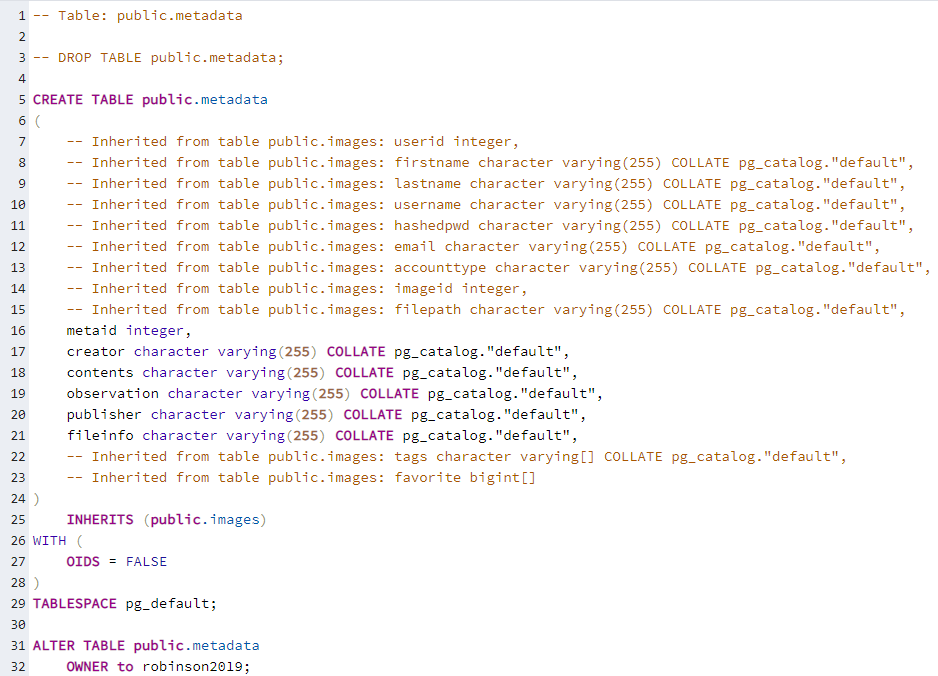
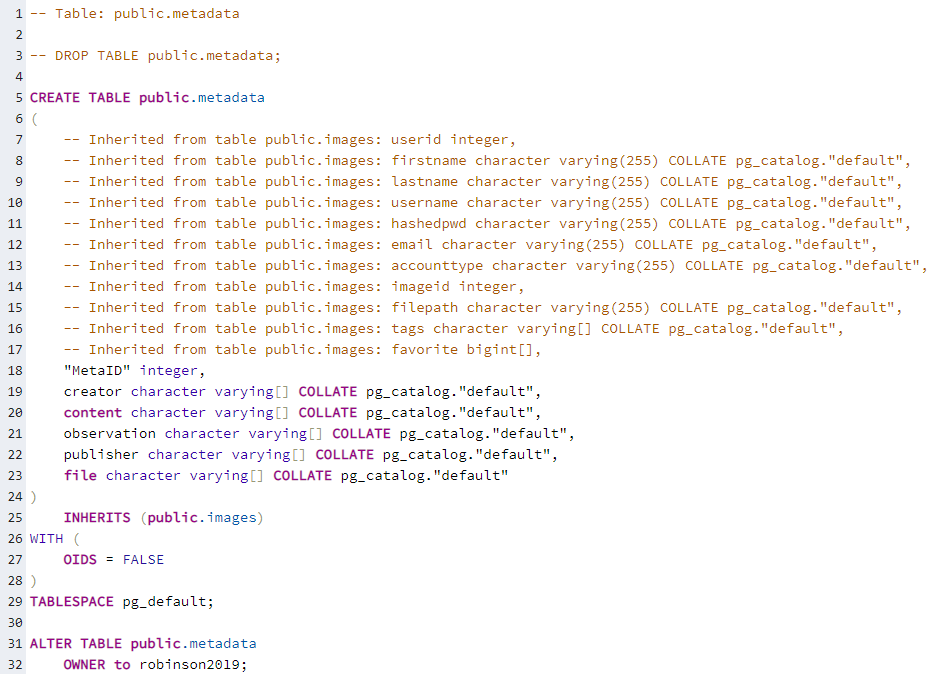
added metadata

Changed region(s): [[0.0618, 0.1869, 0.9893, 0.7166], [0.0, 0.0, 0.3092, 0.997]]

diff --git a/src/document.tex b/src/document.tex
@@ -623,8 +623,10 @@ Creating a database on Amazon Web Services proved to be extremely intuitive and 
 
 \subsection{Users Table}
 
-The users table seeks to form a base for the database to form associations with images and their respective metadata.  The users table will contain some personal information about the user for the purpose of account security but the information will not be shared or displayed publicly.  Their full name and email will only be viewable by the users themselves.  Their username will be used to log in to the website along with their password.  The passwords will be hashed using bcrypt.  Bcrypt is a long-standing and proven password hashing function designed by Niels Provos and David Mazières.  Bcrypt makes use of salt and is resistant to several variations of attacks such as a brute-force search or a rainbow table attack.  Password recovery will work through email as a form of authentication to improve account security.  
-A user ID will be associated with each account as a method of keeping track of accounts without any personal identification and also function as the primary key of the database and each account will be assigned an account type.  The account type will be either public or administrator.  A public account is meant for the general public to interact with the website and view the images made available by the observatory.  A general account will be able to search the images and favorite images of their choice.  The search functionality will find the best match to their criteria based on associated tags of images assigned by administrator accounts.  The administrator accounts will involve the astronomer team and those involved with the observatory professionally.  These accounts will have special access including features such as adding and deleting images from the database and editing metadata information.
+The users table seeks to form a base for the database to form associations with images and their respective metadata.  Each user can be associated to as many images as they desire.  The users table will contain some personal information about the user for the purpose of account security but the information will not be shared or displayed publicly.  Their full name and email will only be viewable by the users themselves.  Their username will be used to log in to the website along with their password.  The passwords will be hashed using bcrypt.  Bcrypt is a long-standing and proven password hashing function designed by Niels Provos and David Mazières.  Bcrypt makes use of salt and is resistant to several variations of attacks such as a brute-force search or a rainbow table attack.  Password recovery will work through email as a form of authentication to improve account security.  
+A user ID will be associated with each account as a method of keeping track of accounts without any personal identification and each account will be assigned an account type.  The account type will be either public or administrator.  A public account is meant for the general public to interact with the website and view the images made available by the observatory.  A general account will be able to search the images and favorite images of their choice.  The search functionality will find the best match to their criteria based on associated tags of images assigned by administrator accounts.  The administrator accounts will involve the astronomer team and those involved with the observatory professionally.  These accounts will have special access including features such as adding and deleting images from the database and editing metadata information.
+Below is an example of the SQL for the users table.
+
 
 \begin{figure}[h]
 	\centering
@@ -635,7 +637,7 @@ A user ID will be associated with each account as a method of keeping track of a
 
 \subsection{Images Table}
 
-The images table will associate images to their metadata and users can associate themselves to multiple images.  The images will make use of a user ID and an image ID to associate images with users in cases such as when they favorite an image or if they uploaded the image to the database.  The images themselves won’t be stored directly on the database but their file paths will be stored on the database to reduce personal data storage requirements and rely on the use of cloud storage.  Tags will be created for images in order for them to be identifiable. Tags such as “full moon”, “Polaris”, “the north star” will assist the search functionality of the database to make the website and images more accessible and increase community interactions.  A favorite functionality will also allow for images to be associated to users in a personal gallery of favorited images from the observatory.  Below is an example of the SQL for the images table.
+The images table will associate images to their metadata and users can associate themselves to multiple images.  Each user can be associated to many images and each image will be associated to a specific metadata.  The images will make use of a user ID and an image ID to associate images with users in cases such as when they favorite an image or if they uploaded the image to the database.  The images themselves won’t be stored directly on the database but their file paths will be stored on the database to reduce personal data storage requirements and rely on the use of cloud storage.  Tags will be created for images in order for them to be identifiable. Tags such as “full moon”, “Polaris”, “the north star” will assist the search functionality of the database to make the website and images more accessible and increase community interactions.  A favorite functionality will also allow for images to be associated to users in a personal gallery of favorited images from the observatory.  Below is an example of the SQL for the images table.
 
 \begin{figure}[h]
 	\centering
@@ -646,13 +648,14 @@ The images table will associate images to their metadata and users can associate
 
 \subsection{Metadata Table}
 
+The metadata table will associate metadata with their respective image.  The relationship will be one-to-one as each image should have its own unique metadata.  The metadata table will hold all the pertinent fields which will be gathered through the telescope and the associated software.  The metadata gathered form the telescope software will be used to fill the metadata table.  The fields will hold varying levels of categorized information.  The creator field will hold information such as contact information for the creator including their full name, email, telephone, and address.  Any fields that are not filled out will default to an empty string.  The content field will hold information including the name of the subject, a short description, and date collected.  The observation field will include the type of telescope used, the facility where the image was capture, the light spectrum, spatial coordination, and other technical information regarding how and where the image was taken.  The publisher field will include the associated telescope and their sponsor.  The file section will include information on the file type of the image and the size of the image.  Below is an example of the SQL for the metadata table.
+
 \begin{figure}[h]
 	\centering
 	\caption{SQL Example of the Metadata Table}
 	\includegraphics[width=\linewidth]{database_metadata_table}
 	\label{fig:SQL Metadata Table}
 \end{figure}
-
 
 \section*{Archive Backend}
 
